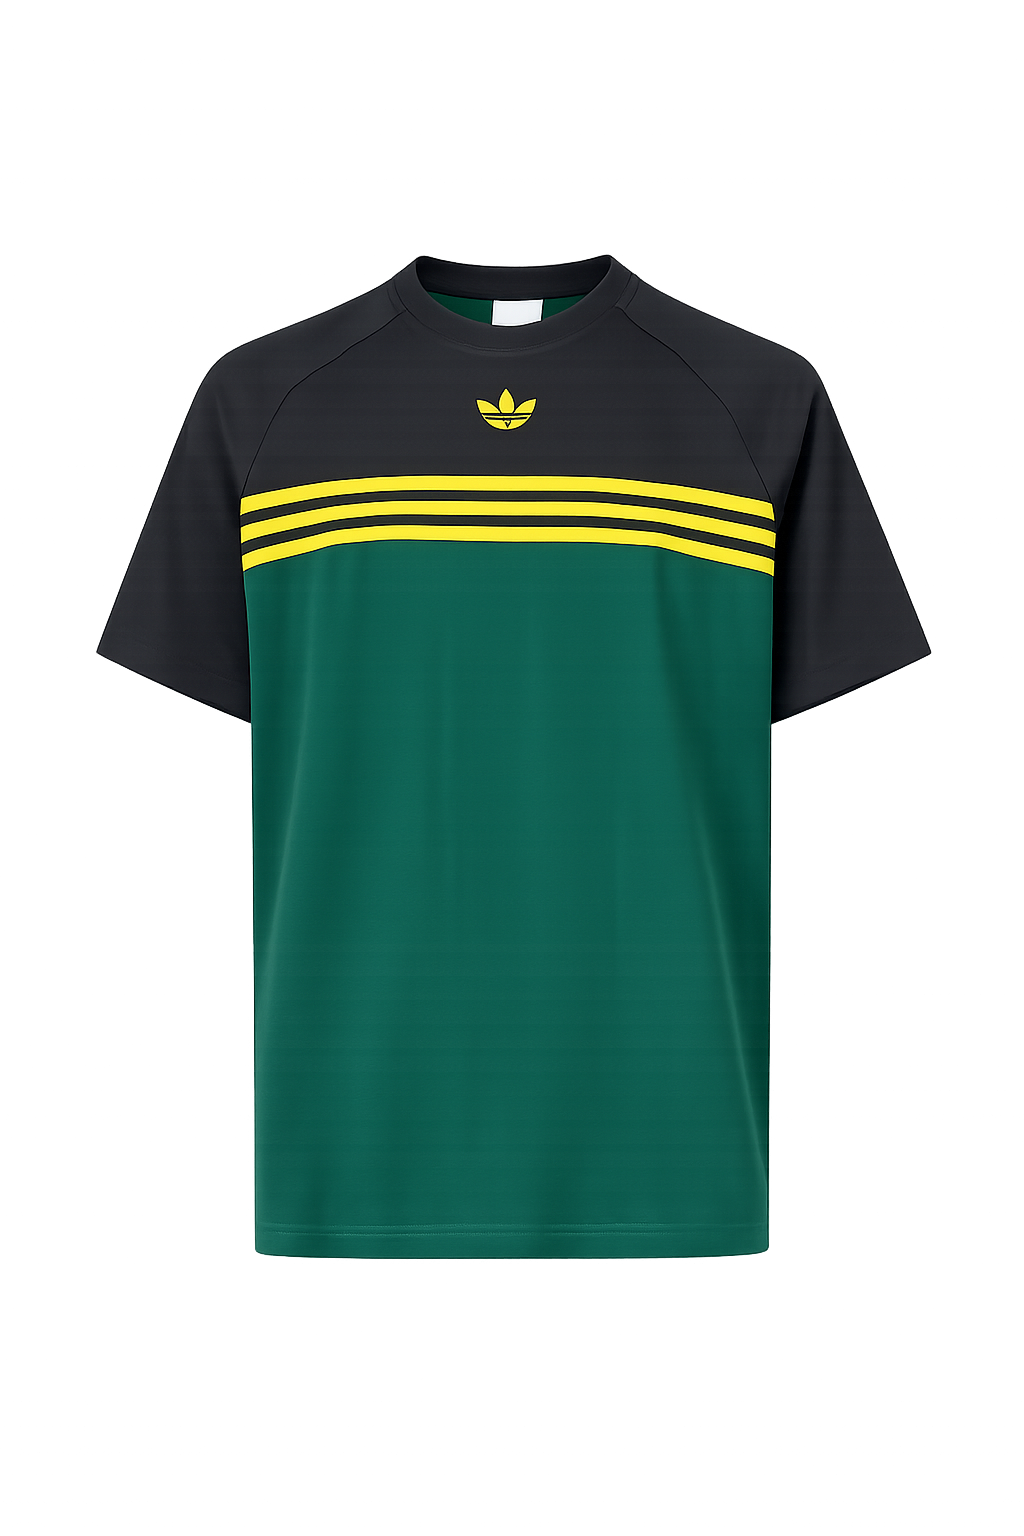
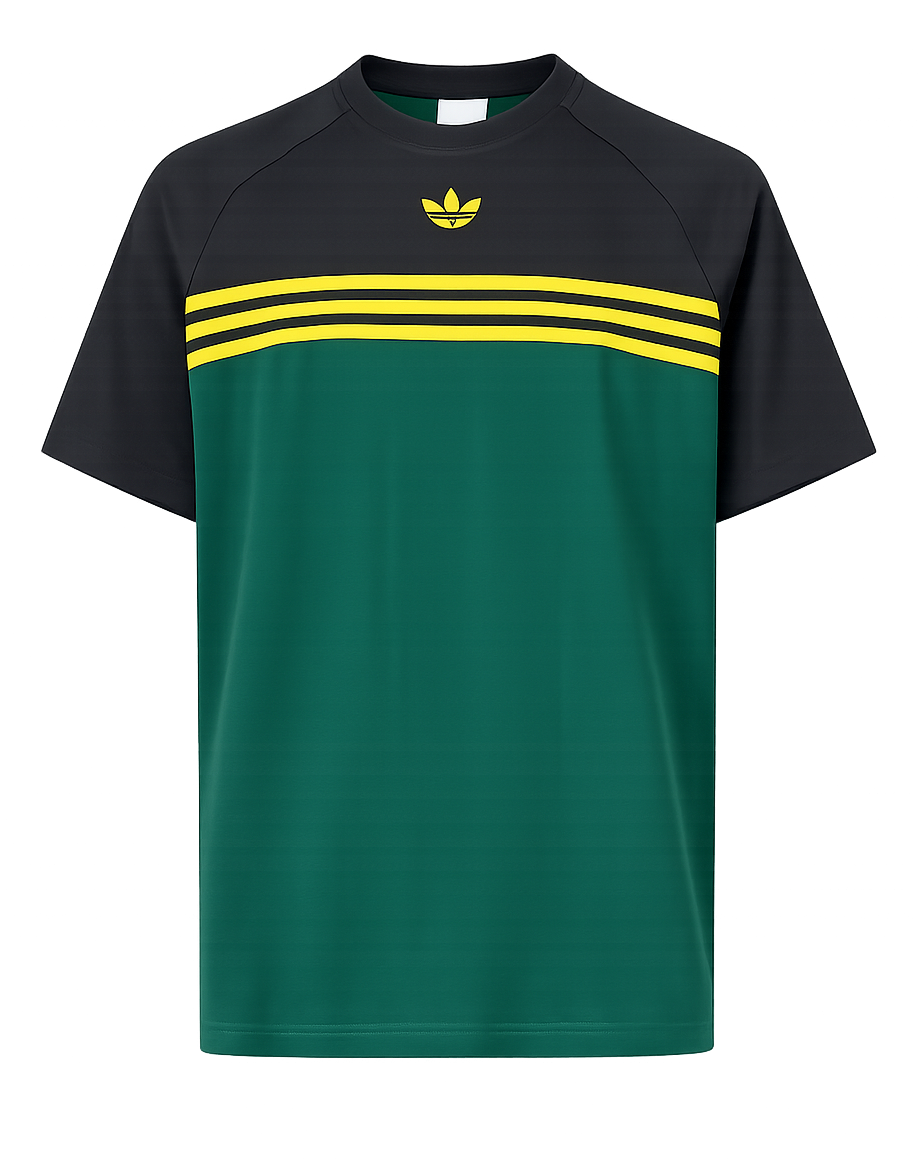
Saca cards/reflejo del coverflow: PNGs completos flotando, tamaño parejo entre remeras

Changed region(s): [[0.0305, 0.0306, 0.976, 0.9184]]

diff --git a/css/style.css b/css/style.css
@@ -1,6 +1,5 @@
 :root {
   --negro: #000;
-  --card-bg: #111;
 }
 
 * { box-sizing: border-box; }
@@ -33,15 +32,10 @@ html, body {
   position: absolute;
   top: 50%;
   left: 50%;
-  width: 250px;
-  height: 340px;
-  margin: -170px 0 0 -125px;
-  border-radius: 16px;
-  background: var(--card-bg);
-  overflow: hidden;
-  box-shadow: 0 25px 60px rgba(0, 0, 0, 0.7);
+  width: 300px;
+  height: 400px;
+  margin: -200px 0 0 -150px;
   will-change: transform, opacity, filter;
-  -webkit-box-reflect: below 6px linear-gradient(transparent, transparent 55%, rgba(255, 255, 255, 0.12));
 }
 
 .card.en-movimiento {
@@ -55,7 +49,7 @@ html, body {
 .card img {
   width: 100%;
   height: 100%;
-  object-fit: cover;
+  object-fit: contain;
   display: block;
   pointer-events: none;
   -webkit-user-drag: none;
